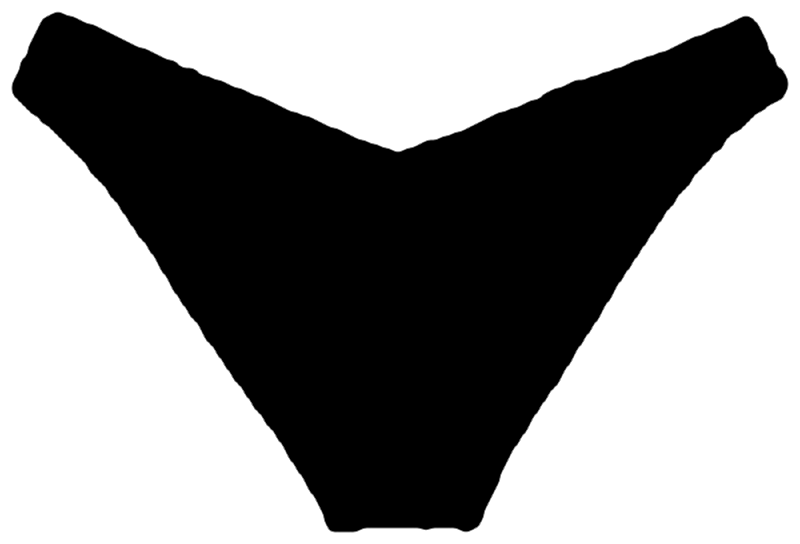
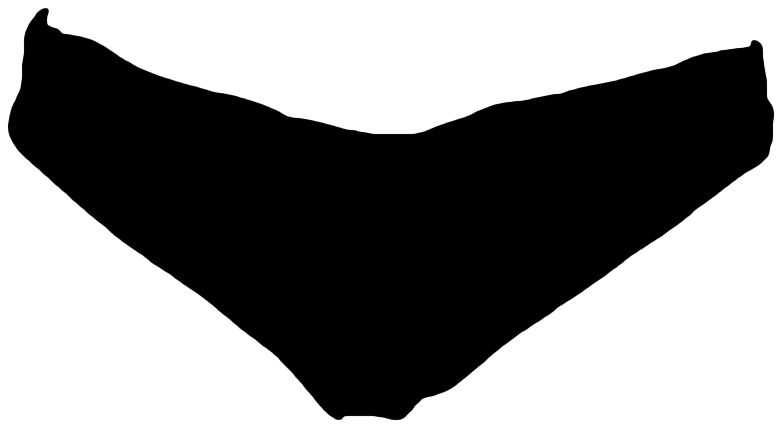
Builder: twist halter + bottom cut from the real Peaces sample photos (front + back, high-res)
Claude-Session: https://claude.ai/code/session_01PhnKHNsSfEPVo4yL2BRkJT

diff --git a/index.html b/index.html
@@ -1281,12 +1281,12 @@
   var GEO={
     "b-triangle-top":{"w":366,"h":306,"strapL":[111,6],"strapR":[231,6],"junctionL":[90,159],"junctionR":[255,174],"strapRunL":[[111,12],[92,150]],"strapRunR":[[231,12],[253,165]],"outerL":[30,285],"outerR":[327,285],"center":[180,264],"centerHigh":[180,252],"trimSegs":[[92,162,158,266],[210,266,256,176]]},
     "b-triangle-bottom":{"w":366,"h":192,"hipL":[12,24],"hipR":[354,12],"tieTopL":[6,21],"tieTopR":[360,9],"strapRunL":[[12,24],[85,82]],"strapRunR":[[354,12],[278,80]],"center":[183,90],"mono":[189,125],"trimSegs":[[82,82,183,92],[183,92,282,80]]},
-    "b-underwire-top":{"w":323,"h":350,"strapL":[140,14],"strapR":[190,14],"junctionL":[40,185],"junctionR":[285,185],"strapRunL":[[130,35],[50,175]],"strapRunR":[[195,35],[278,175]],"outerL":[12,232],"outerR":[312,232],"center":[160,228],"centerHigh":[160,214],"trimSegs":[[8,195,160,218],[160,218,315,192]]},
-    "b-seamless-bottom":{"w":328,"h":217,"hipL":[12,14],"hipR":[316,12],"tieTopL":[10,8],"tieTopR":[318,6],"strapRunL":[[12,14],[20,40]],"strapRunR":[[316,12],[308,40]],"center":[165,36],"mono":[165,95],"trimSegs":[[12,10,165,34],[165,34,315,8]]}
+    "b-underwire-top":{"w":774,"h":760,"k":0.42,"strapL":[237,13],"strapR":[553,20],"junctionL":[73,433],"junctionR":[731,453],"strapRunL":[[225,40],[80,420]],"strapRunR":[[565,45],[720,440]],"outerL":[16,587],"outerR":[747,587],"center":[400,584],"centerHigh":[400,560],"trimSegs":[[80,440,400,565],[400,565,733,456]]},
+    "b-seamless-bottom":{"w":833,"h":407,"k":0.42,"hipL":[30,110],"hipR":[800,100],"tieTopL":[47,20],"tieTopR":[795,45],"strapRunL":[[30,110],[60,190]],"strapRunR":[[800,100],[770,190]],"center":[400,195],"mono":[400,290],"trimSegs":[[30,108,400,193],[400,193,800,95]]}
   };
 
   /* back views (photo cut-outs) for the styles that have one */
-  var BACK={"b-underwire-top":{w:313,h:377},"b-seamless-bottom":{w:320,h:217}};
+  var BACK={"b-underwire-top":{w:716,h:814,k:0.42},"b-seamless-bottom":{w:781,h:427,k:0.42}};
   function fmt(n){ return "$"+n.toFixed(2); }
   function colorDef(id){ return COLORS.filter(function(c){return c.id===id;})[0]||COLORS[0]; }
   function styleOf(part){ return STYLES[part][part==="top"?state.topStyle:state.bottomStyle]; }
@@ -1335,7 +1335,7 @@
     if(opts.back){ g=BACK[artName]; artName=artName+"-back"; }
     var wrap=document.createElement("div");
     wrap.className="piece"+(col.fill==="leopard"?" leopard":"")+(opts.back?" is-back":"");
-    wrap.style.width=opts.thumb?"100%":"calc("+g.w+" * var(--u))";
+    wrap.style.width=opts.thumb?"100%":"calc("+(g.w*(g.k||1))+" * var(--u))";
     wrap.style.setProperty("--fabric",hex);
     var sizer=document.createElement("img");
     sizer.className="sizer"; sizer.alt=""; sizer.src="art2/"+artName+"-sil.png";
